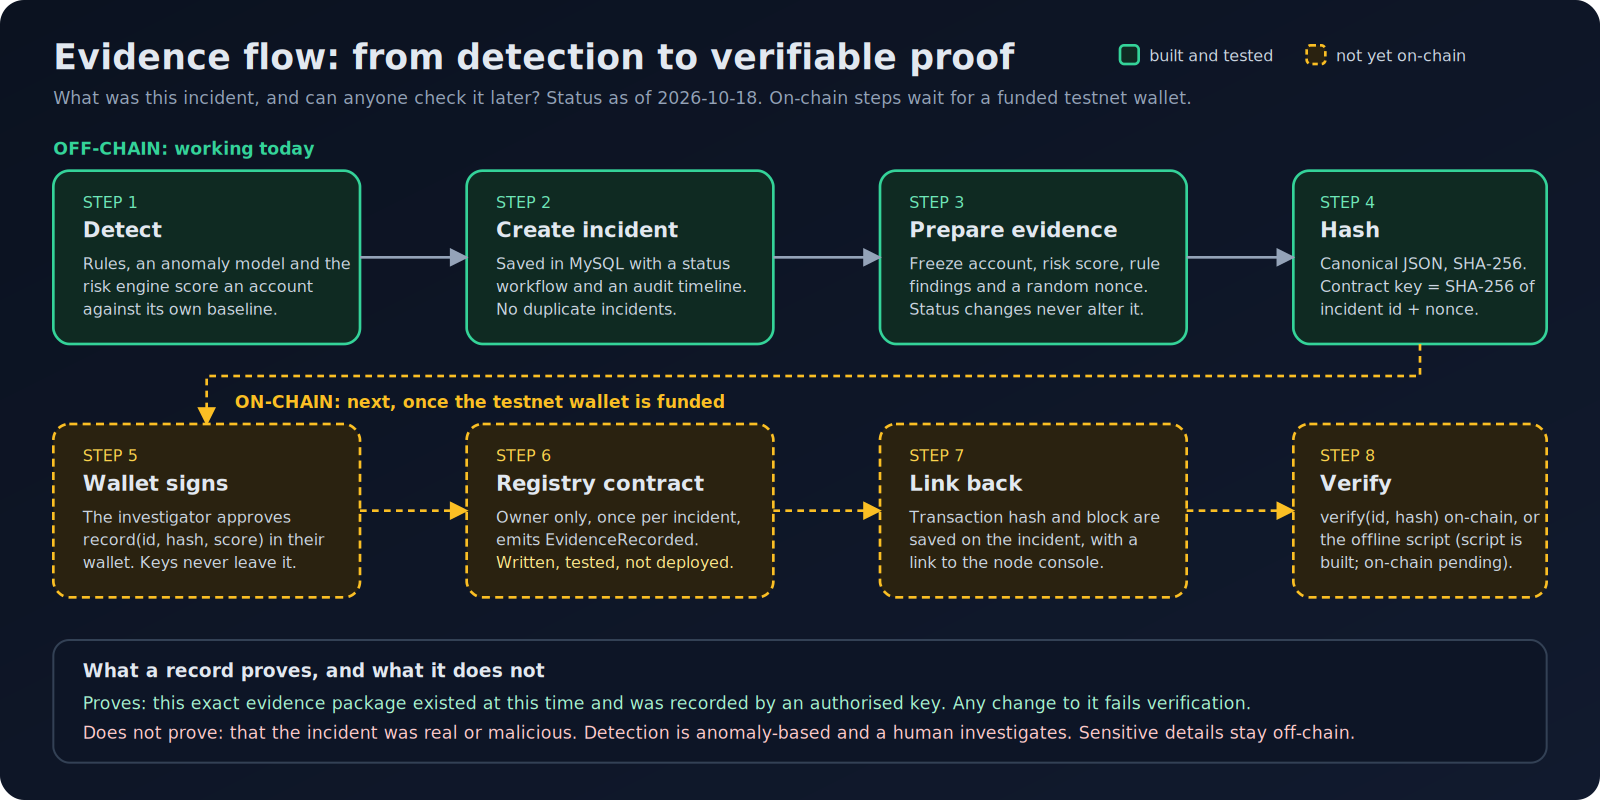
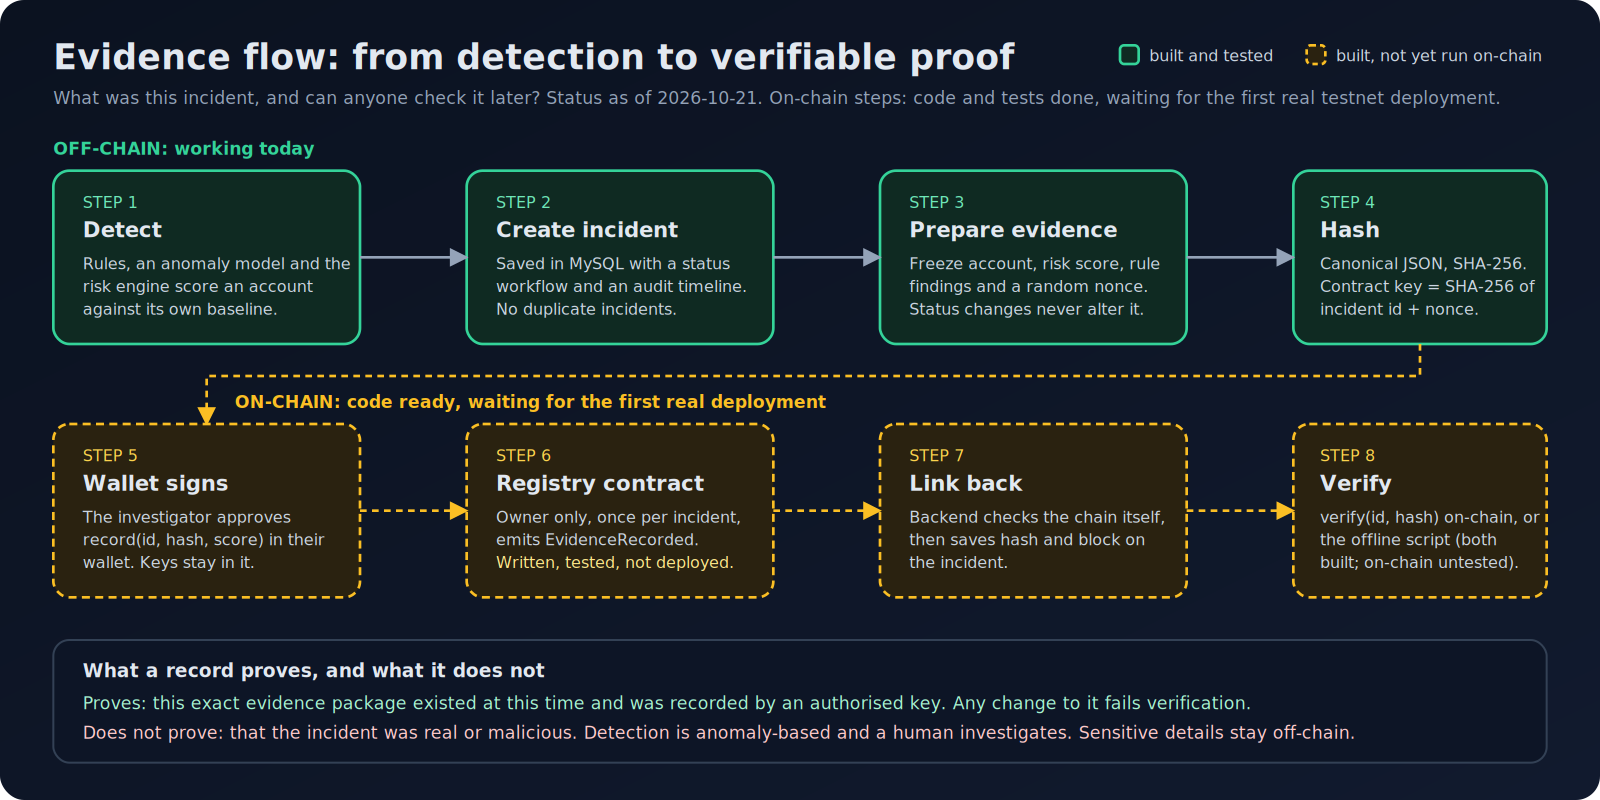
docs: add deployment runbook and check-in draft; update architecture

diff --git a/docs/DEPLOYMENT.md b/docs/DEPLOYMENT.md
@@ -1,0 +1,75 @@
+# Deployment runbook: evidence registry on the Portaldot V3 testnet
+
+Status as of 2026-10-21. Check-in deadline: 2026-10-24 12:00 UTC (13:00 Lagos).
+
+Everything below is **unverified until its checkpoint passes**. Each checkpoint says what to do if it fails. Stop at the first failure and send the exact output; do not improvise.
+
+## Rules that do not bend
+- **Testnet only.** In the node console always select **PortaldotV3 Testnet**, never "Live".
+- **A separate deployer account.** Create a new MetaMask account only for this. Do not use or import your main wallet.
+- **Never paste a seed phrase or private key anywhere**: not here, not in Remix, not in a file, not in the repo, not in a support ticket.
+- **Small amounts first.** The first transfer is 5 tPOT, not 500.
+
+## Phase 1: wallet and network (10 minutes)
+1. Install MetaMask from the Chrome Web Store (publisher: MetaMask). Open it and create or unlock a wallet.
+2. Account menu, **Add account**, name it `Sentinel Deployer`. Copy its address (starts with `0x`; this is public).
+3. Settings, Networks, **Add a network manually**:
+
+| Field | Value |
+|---|---|
+| Network name | Portaldot V3 Testnet |
+| RPC URL | https://test-evm-rpc-v3.portaldot.dev |
+| Chain ID | 420420777 |
+| Currency symbol | tPOT |
+| Block explorer URL | https://node-console.portaldot.dev/?rpc=wss%3A%2F%2Ftest-node-v3.portaldot.dev |
+
+**Checkpoint 1:** the network saves with no error and the balance shows 0 tPOT. If MetaMask says it cannot fetch the chain id, stop and send me the message.
+
+## Phase 2: fund the deployer (15 minutes)
+An `0x` account is funded by sending tPOT to its "fallback" account. That is general behaviour of this kind of chain and is **not yet confirmed for Portaldot**. The check below tests it with a small amount.
+
+1. Run: `python scripts\evm_funding_address.py 0xYOUR_DEPLOYER_ADDRESS`
+   It prints a `5...` address labelled "Send tPOT to this 5... address". Copy it.
+2. Open the node console, select **PortaldotV3 Testnet** (top left, TEST NETWORKS, Switch).
+3. Accounts, Accounts, find your account, press **send**. Paste the `5...` address as the recipient, amount **5**, unit **tPOT**, Make Transfer, approve in the Portaldot extension.
+4. Wait 30 seconds, then run: `python scripts\evm_funding_address.py 0xYOUR_DEPLOYER_ADDRESS --check`
+
+**Checkpoint 2:** it prints `RESULT: both views see funds`, and MetaMask shows a non-zero balance.
+- Result says the Substrate side sees funds but the Ethereum side does not, or still zero after 2 minutes: **STOP. Send nothing more.** Paste the output. The 5 tPOT is a small testnet loss, and it tells us the fallback-account assumption is wrong.
+
+## Phase 3: deploy with Remix (15 minutes)
+1. Open https://remix.ethereum.org. Create `SentinelEvidenceRegistry.sol` and paste the contents of `contracts/contracts/SentinelEvidenceRegistry.sol`.
+2. Solidity compiler tab: version **0.8.26** (any 0.8.2x works), Advanced Configurations: **EVM Version = paris**, **Enable optimization = 200**. Compile.
+3. Deploy and run tab: Environment **Injected Provider - MetaMask**. Check that MetaMask is on Portaldot V3 Testnet and the account is `Sentinel Deployer`. Deploy, then approve in MetaMask.
+
+**Checkpoint 3:** Remix logs success and lists the contract under "Deployed Contracts". Copy the **contract address** and the **deployment transaction hash** (MetaMask, Activity, the transaction, copy hash).
+- In Remix, expand the contract: `owner` should equal your deployer address and `totalRecords` should be 0.
+- Then run: `python scripts\check_registry.py 0xYOUR_CONTRACT` and expect "code at address: yes", the owner, and "records stored: 0".
+
+| If you see | Likely meaning | Do this |
+|---|---|---|
+| insufficient funds / gas | Not enough tPOT in the deployer | Send another 5 tPOT, repeat Phase 2 step 3 |
+| invalid opcode, code rejected, revert without a reason | The chain may need a different compile target (for example PolkaVM) | **STOP.** Send me the exact error text. We switch compile path |
+| MetaMask cannot fetch / network error | The RPC refused the browser | Send me the exact message |
+| Remix cannot estimate gas | Estimation unsupported | Send me the message; we try a manual gas limit |
+
+## Phase 4: connect Sentinel and record real evidence (10 minutes)
+1. In `backend\.env` add one line: `REGISTRY_ADDRESS=0xYOUR_CONTRACT`
+2. `cd backend`, `alembic upgrade head` (applies migration 0004), restart `uvicorn app.main:app --reload`.
+3. In Sentinel: **Run detection**, open the incident, **Prepare evidence package**, press **Record evidence on-chain**, approve in MetaMask. Use the **same account that deployed** the contract; only the owner can record, and any other account reverts with `NotOwner`.
+4. Wait for "Verified against the chain: the registry recorded this incident's id, hash and risk score in block N".
+
+**Checkpoint 4:** the Evidence panel shows Anchored, the contract, the transaction hash and the block.
+- Independent proof: **Show package**, copy the "On-chain incident id" and the hash, then run
+  `python scripts\check_registry.py 0xYOUR_CONTRACT --incident 0xON_CHAIN_ID --hash 0xHASH`
+  and expect `verify(id, hash) : True` with the stored hash and risk score.
+
+## Phase 5: capture proof for the check-in
+- Contract address, deployment transaction hash, record transaction hash, block number.
+- Screenshots: MetaMask confirmation, the Anchored panel, the `check_registry.py` output.
+- Fill in `docs/CHECKIN_DRAFT.md` and update `docs/PORTALDOT_VERIFIED_FACTS.md` with what was actually observed.
+
+## What is already proven, and what is not
+Proven by tests: the contract's behaviour (9 tests), the browser's calldata (byte-identical to a real EVM library's), and Sentinel's server-side verification, which was run against a real in-memory EVM over HTTP with a real deployment and a real `record()` call.
+
+Not proven until you run it: that Portaldot accepts standard EVM bytecode, that the fallback-account funding works, that MetaMask talks to the public RPC, and the wallet pop-up flow in the browser.

diff --git a/docs/CHECKIN_DRAFT.md b/docs/CHECKIN_DRAFT.md
@@ -1,0 +1,47 @@
+# Check-in submission draft (DoraHacks, due 2026-10-24 12:00 UTC)
+
+Fill every [FILL IN]. Delete any sentence that is not true when you submit. Do not claim a deployment that has not happened.
+
+## Project
+**Portal Sentinel**: security intelligence for the Portaldot ecosystem. Track: Node Operations & Tooling.
+One sentence: Portal Sentinel watches the Portaldot network and account behaviour, explains what is unusual and how risky it is, and anchors a verifiable fingerprint of each incident's evidence on-chain.
+
+## Current project progress
+- **Live network-health monitoring** on the Portaldot V3 testnet: block authors, finality lag, missed slots and stalled production, read-only, with four alert rules (NH-001 to NH-004).
+- **Detection and risk engine**: two explainable rules plus an Isolation Forest anomaly model compare each account with its own history, and combine into an explained risk score. Currently run on simulated transactions because the testnet carries almost no activity (0 transactions in 30 blocks when checked); every simulated record is labelled DEMO / SIMULATED.
+- **Incident workflow** stored in MySQL: legal status transitions, audit timeline, duplicate protection.
+- **Evidence packages**: frozen canonical JSON, SHA-256 hash, an independent verifier script, and an on-chain incident id.
+- **Evidence registry contract** (Solidity): owner-only, one record per incident, two-step ownership. 9 tests pass, and deliberately broken versions are caught.
+- **Server-side on-chain verification**: Sentinel confirms a transaction against the chain (receipt, event, contract state) before marking evidence anchored. Tested against a real EVM.
+- 179 automated tests; every simulated element is labelled.
+
+## Testnet deployment information
+[FILL IN ONE of the two versions]
+
+**If deployed:**
+- Network: Portaldot V3 Testnet (chain id 420420777)
+- Registry contract address: [FILL IN]
+- Deployment transaction hash: [FILL IN]
+- First evidence record transaction hash: [FILL IN] (block [FILL IN])
+- Explorer: the node console (https://node-console.portaldot.dev, testnet selected) shows the chain; Ethereum-style transaction hashes are verified with `scripts/check_registry.py` in the repository.
+
+**If not yet deployed (state this plainly):**
+The contract is written and tested but not yet deployed. The testnet endpoints were announced on 2026-10-16 and test tokens reached our wallet on [FILL IN DATE]. The first public RPC value we found was retired, and the organizers' technical team confirmed on 2026-10-14 that endpoints, funding and an explorer were not yet available (statement saved). [FILL IN what is blocking now and the exact error, if any.]
+
+## Outstanding items
+- Live transaction ingestion (the testnet is nearly empty, so we will generate labelled test activity).
+- Wallet flow end to end on the testnet [remove if done].
+- API authentication and hardening before any public deployment.
+- Tuning the rule and model thresholds on real activity.
+- A second registry recorder role (today one owner key records).
+
+## Links
+- Public GitHub repository: https://github.com/Austine24/portal-sentinel
+- README: in the repository root. Architecture diagram: `docs/architecture.svg` and `docs/evidence-flow.svg`.
+- Development records: the commit history, plus `docs/PORTALDOT_VERIFIED_FACTS.md`, which records what is verified, tested or still unknown.
+
+## Demo (at most 3 minutes)
+[FILL IN video link]. Script: `docs/DEMO_SCRIPT.md`. Shows live network health, incident investigation with explained risk, evidence hashing with an independent MATCH / MISMATCH check, and [the on-chain record, if done].
+
+## Honest limits to mention if asked
+Transaction data is simulated; thresholds are untuned on real data; no API authentication yet; one owner key controls recording.

diff --git a/docs/ARCHITECTURE.md b/docs/ARCHITECTURE.md
@@ -3,7 +3,7 @@
 Portal Sentinel is a security intelligence and observability layer for the Portaldot ecosystem. It turns raw activity into
 **explained risk**, tracks each alert as an **incident**, and can anchor a **tamper-evident fingerprint** of an incident on-chain.
 
-Status as of 2026-10-18. Transaction data is **DEMO / SIMULATED** until a live transaction source is connected (the testnet currently carries almost no transactions). **Network-health data is LIVE** and read from the Portaldot testnet.
+Status as of 2026-10-21. Transaction data is **DEMO / SIMULATED** until a live transaction source is connected (the testnet currently carries almost no transactions). **Network-health data is LIVE** and read from the Portaldot testnet.
 
 ![System architecture](architecture.svg)
 
@@ -25,10 +25,11 @@ Status as of 2026-10-18. Transaction data is **DEMO / SIMULATED** until a live t
 | Risk engine | Noisy-OR combination of weighted findings, Low to Critical bands, explained factors. | Built |
 | Incident service | Status workflow with legal transitions, audit timeline, duplicate protection. | Built |
 | Evidence service | Frozen canonical JSON, SHA-256 hash, on-chain incident id. | Built |
+| On-chain anchor verification | Given a transaction hash from the browser, the backend reads the receipt and the contract itself: the registry must have emitted the event for exactly this incident id, hash and risk score, and `verify()` must agree. Tested against real EVM output and a real in-memory deployment. | Built, not yet run on the Portaldot testnet |
 | Independent verifier | `scripts/verify_evidence.py`, standard library only, shares no code with the backend. | Built |
 | MySQL | Incidents and timeline, versioned with Alembic migrations. | Built |
 | SentinelEvidenceRegistry | Solidity contract, owner-only, one record per incident, two-step ownership. | Written, 9 tests pass, **not deployed** |
-| Wallet signing | Investigator approves the on-chain record in a browser wallet. | Planned |
+| Wallet signing | The browser builds the `record()` call and asks the investigator's wallet (MetaMask) to approve it; Sentinel never sees a key. Calldata is byte-identical to a real EVM library's. | Built, not yet run against a real wallet |
 
 ## Key design decisions
 

diff --git a/docs/PORTALDOT_VERIFIED_FACTS.md b/docs/PORTALDOT_VERIFIED_FACTS.md
@@ -356,3 +356,21 @@ Calls seen in the console's extrinsic list: `batchMapAccounts`, `call`, `dispatc
 - VERIFIED-OBSERVED: these calls exist on the testnet.
 - INFERRED, NOT YET TESTED: `ethCall` and `ethInstantiateWithCode` take an encoded Ethereum transaction, which is what an Ethereum-JSON-RPC proxy submits. This suggests contracts can be deployed through the EVM RPC with ordinary Ethereum tools.
 - STILL UNKNOWN (section K, question 3): whether the `code` accepted is plain EVM bytecode or another target. A real test deployment will answer it once funds arrive.
+
+
+---
+
+## P. Funding arrived (probe, 2026-10-19); open hypotheses before deployment
+
+- **TESTED (probe):** the team member's registered address held **500.0000 tPOT** at block 100394 (finality lag 2, BABE author index 0). The first batch of tPOT reached registered participants.
+- Date check on 2026-10-21 04:08 UTC: the chain was about 25 hours past block 85279, consistent with 6-second blocks.
+
+Hypotheses to be tested by `docs/DEPLOYMENT.md` (all UNVERIFIED until the named checkpoint passes):
+
+| Hypothesis | Source | Tested by |
+|---|---|---|
+| An `0x` address is funded by sending tPOT to the account made of its 20 bytes followed by twelve `0xEE` bytes | General pallet-revive documentation, not Portaldot | Checkpoint 2 (`evm_funding_address.py --check`) |
+| The testnet accepts plain EVM bytecode compiled by `solc` (EVM version paris) | The runtime exposes `ethInstantiateWithCode`; compile target unknown | Checkpoint 3 (Remix deployment) |
+| MetaMask can use `https://test-evm-rpc-v3.portaldot.dev` with chain id 420420777 | Organizer announcement | Checkpoint 1 |
+| The native currency shows with 18 decimals in MetaMask although the chain uses 14 | Assumption for the MetaMask network entry | Observed balances at Checkpoint 2 |
+| Ethereum-style transaction hashes cannot be searched in the node console | The console is a Substrate explorer | Checkpoint 4; proof is by `check_registry.py` instead |

diff --git a/README.md b/README.md
@@ -16,9 +16,10 @@ Monitor. Detect. Investigate. Verify.
 - Evidence packages: frozen, canonical JSON per incident with a SHA-256 hash, plus a standalone verifier (`scripts/verify_evidence.py`, standard library only)
 - React dashboard, incident list and detail pages talking to the API
 - **Network health monitoring on live Portaldot testnet data** (block authors, finality lag, missed slots, stalled production) with a Network page; see `docs/NETWORK_HEALTH.md`
+- Evidence registry contract with tests, and server-side verification of on-chain records (`docs/DEPLOYMENT.md` is the step-by-step deployment runbook)
 - Read-only chain connectivity check script
 
-Not built yet: live transaction ingestion, wallet, deployment of the evidence contract, authentication.
+Not done yet: the first real testnet deployment of the contract, live transaction ingestion, authentication.
 
 ## Run the backend
 ```powershell
@@ -60,6 +61,8 @@ Full description: `docs/ARCHITECTURE.md`. The evidence flow diagram is `docs/evi
 
 ## Documentation
 - `docs/ARCHITECTURE.md` components, design decisions, security posture
+- `docs/DEPLOYMENT.md` deployment runbook for the evidence registry
+- `docs/CHECKIN_DRAFT.md` draft text for the hackathon check-in
 - `docs/NETWORK_HEALTH.md` live network monitoring: signals, rules, limits
 - `docs/AI_MODEL.md` how the anomaly model works and its limits
 - `docs/DEMO_SCRIPT.md` the 3-minute demo script
@@ -86,5 +89,7 @@ MIT. See `LICENSE`. The contract file declares the same license in its SPDX head
 python scripts\check_chain.py https://test-evm-rpc-v3.portaldot.dev 420420777
 python scripts\inspect_chain.py
 python scripts\probe_substrate.py --balance <your 5... address>
+python scripts\evm_funding_address.py 0xYourDeployerAddress --check
+python scripts\check_registry.py 0xDeployedContract
 ```
 All send only read requests, with a descriptive User-Agent (the public RPC rejects Python's default one).

diff --git a/docs/DEMO_SCRIPT.md b/docs/DEMO_SCRIPT.md
@@ -38,7 +38,7 @@ Be upfront in the submission text that the contract is written and tested but no
 | 2:25 | Press **Record evidence on-chain**; approve in the wallet | "I approve the record in my own wallet. Sentinel never sees my keys." |
 | 2:40 | The transaction in the node console (testnet selected); the incident showing the hash | "Here it is on the Portaldot testnet. The incident links to the transaction, and `verify` on the contract confirms the hash." |
 
-(The on-chain button is not built yet. Do not record Version B until it works end to end.)
+(The button and the server-side verification are built and tested, but they have not yet run against the real testnet. Record Version B only after `docs/DEPLOYMENT.md` Checkpoint 4 passes with a real transaction.)
 
 ## Never say or show
 
